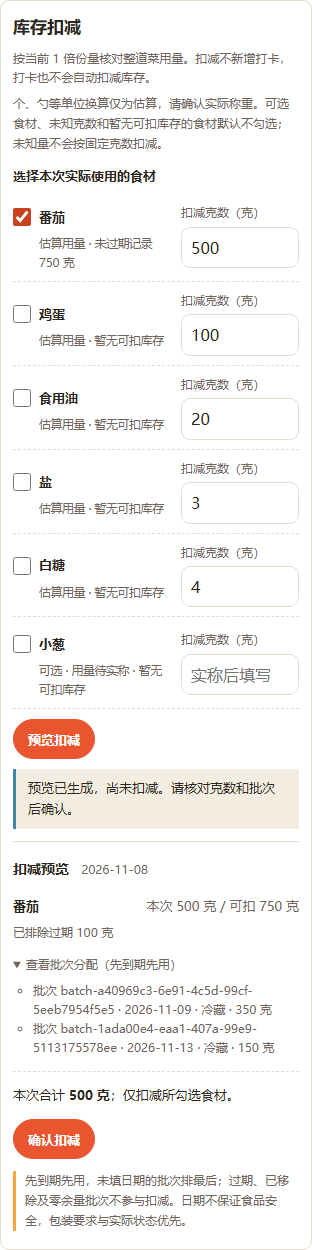
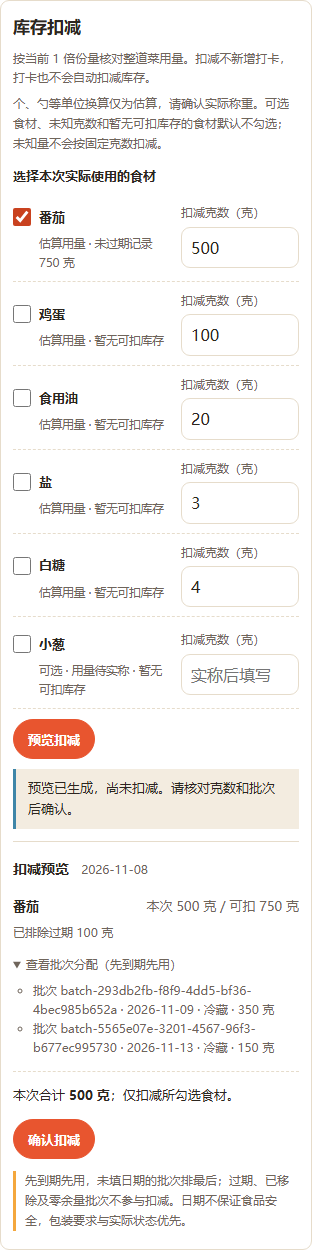
test: 预缓存断言迁到 bundle 世界——sw 断言 js/bundle.js 而非旧模块清单
bundle 改造（7ca4dc5）后 sw.js 的 CORE_ASSETS 不再列 js/goals.js、
js/sync.js 等单个模块，三处一致性测试与 stage28 的离线预缓存断言
还在旧世界，全部改断 js/bundle.js；reference_chain 改为断言 bundle
在列 + 每个 page-*.js 单独预缓存。stage28 两张基线截图顺手刷新。

Changed region(s): [[0.1154, 0.78, 0.8654, 0.8424]]

diff --git a/tests/test_sync_consistency.py b/tests/test_sync_consistency.py
@@ -37,7 +37,9 @@ def test_sync_is_wired_everywhere():
         html = page.read_text(encoding="utf-8")
         assert 'src="js/sync.js"' in html, page.name
         assert html.index("js/share.js") < html.index("js/sync.js") < html.index("js/ui.js")
-    assert '"js/sync.js"' in (ROOT / "web" / "sw.js").read_text(encoding="utf-8")
+    # Shared modules ship inside the bundle (build.py BUNDLE_MODULES); sw.js
+    # precaches the bundle instead of individual module files.
+    assert '"js/bundle.js"' in (ROOT / "web" / "sw.js").read_text(encoding="utf-8")
     assert '"cmf.shareStats"' in (ROOT / "web" / "js" / "store.js").read_text(encoding="utf-8")
     assert 'id="sync-content"' in (ROOT / "web" / "fridge.html").read_text(encoding="utf-8")
     share = (ROOT / "web" / "js" / "share.js").read_text(encoding="utf-8")

diff --git a/tests/browser_stage28.py b/tests/browser_stage28.py
@@ -263,7 +263,7 @@ def main():
             cached.evaluate("async () => { await navigator.serviceWorker.ready; }")
             cached.reload(wait_until="networkidle")
             cached.wait_for_function("navigator.serviceWorker.controller !== null")
-            check("inventory scripts precached", cached.evaluate("""async () => !!(await caches.match('js/inventory.js')) && !!(await caches.match('js/inventory-ui.js'))"""))
+            check("inventory scripts precached", cached.evaluate("""async () => !!(await caches.match('js/bundle.js'))"""))
             offline.set_offline(True)
             cached.goto(base + "fridge.html", wait_until="load")
             cached.wait_for_selector("#inventory-content form")

diff --git a/tests/test_goals_consistency.py b/tests/test_goals_consistency.py
@@ -37,5 +37,7 @@ def test_goals_module_is_wired_everywhere():
         html = page.read_text(encoding="utf-8")
         assert 'src="js/goals.js"' in html, page.name
         assert html.index("js/nutrition.js") < html.index("js/goals.js") < html.index("js/balance.js")
-    assert '"js/goals.js"' in (ROOT / "web" / "sw.js").read_text(encoding="utf-8")
+    # Shared modules ship inside the bundle (build.py BUNDLE_MODULES); sw.js
+    # precaches the bundle instead of individual module files.
+    assert '"js/bundle.js"' in (ROOT / "web" / "sw.js").read_text(encoding="utf-8")
     assert '"cmf.goals"' in (ROOT / "web" / "js" / "store.js").read_text(encoding="utf-8")

diff --git a/tests/test_reference_chain.py b/tests/test_reference_chain.py
@@ -46,9 +46,12 @@ def test_no_duplicate_or_missing_script_files():
 
 def test_sw_precaches_all_scripts():
     sw = (WEB / "sw.js").read_text(encoding="utf-8")
-    scripts = sorted(p.name for p in (WEB / "js").glob("*.js"))
-    assert len(scripts) >= 22
-    for script in scripts:
+    # Shared modules ship inside js/bundle.js (build.py BUNDLE_MODULES);
+    # page scripts stay individual files and must each be precached.
+    assert '"js/bundle.js"' in sw
+    pages = sorted(p.name for p in (WEB / "js").glob("page-*.js"))
+    assert len(pages) >= 8
+    for script in pages:
         assert f'"js/{script}"' in sw, script
 
 
